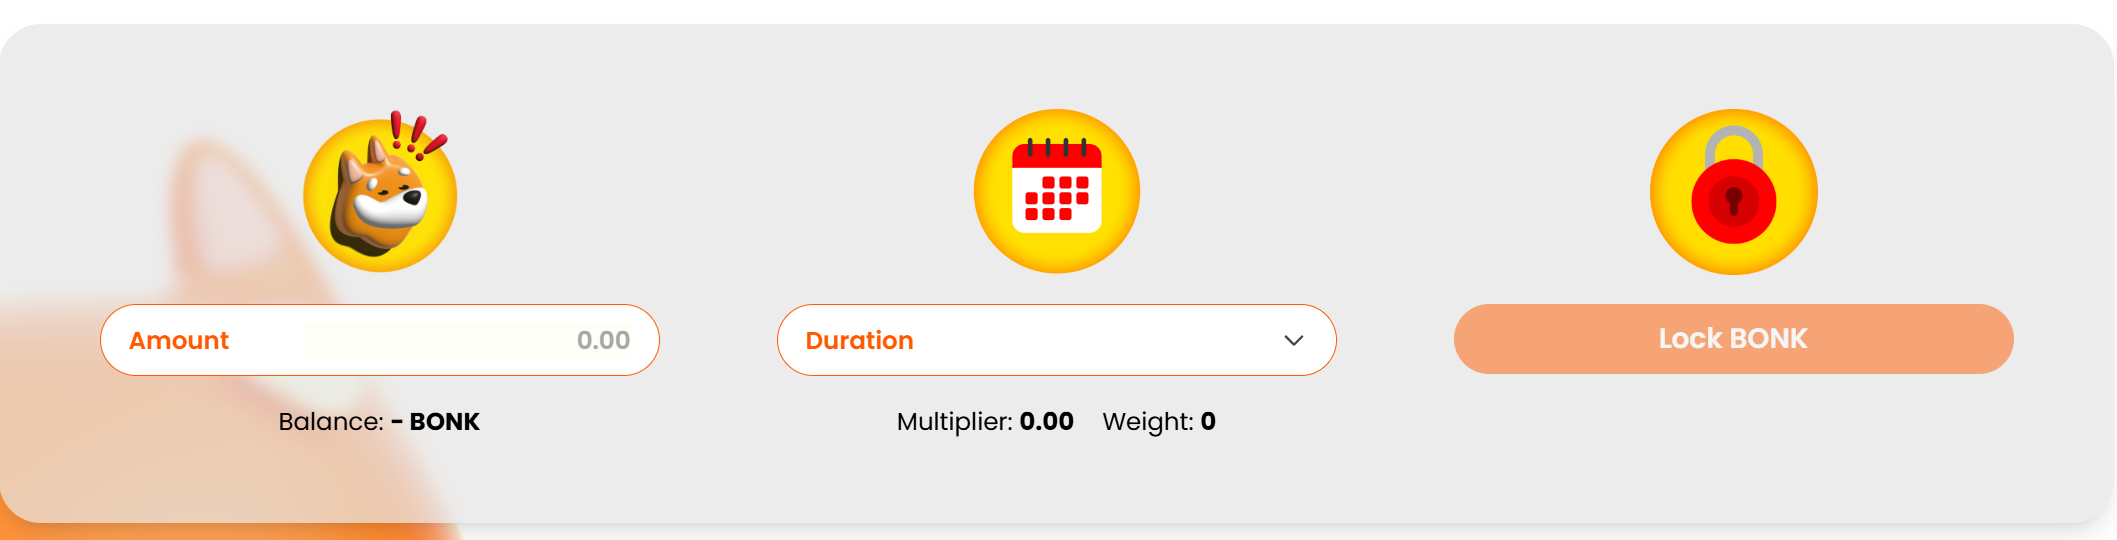
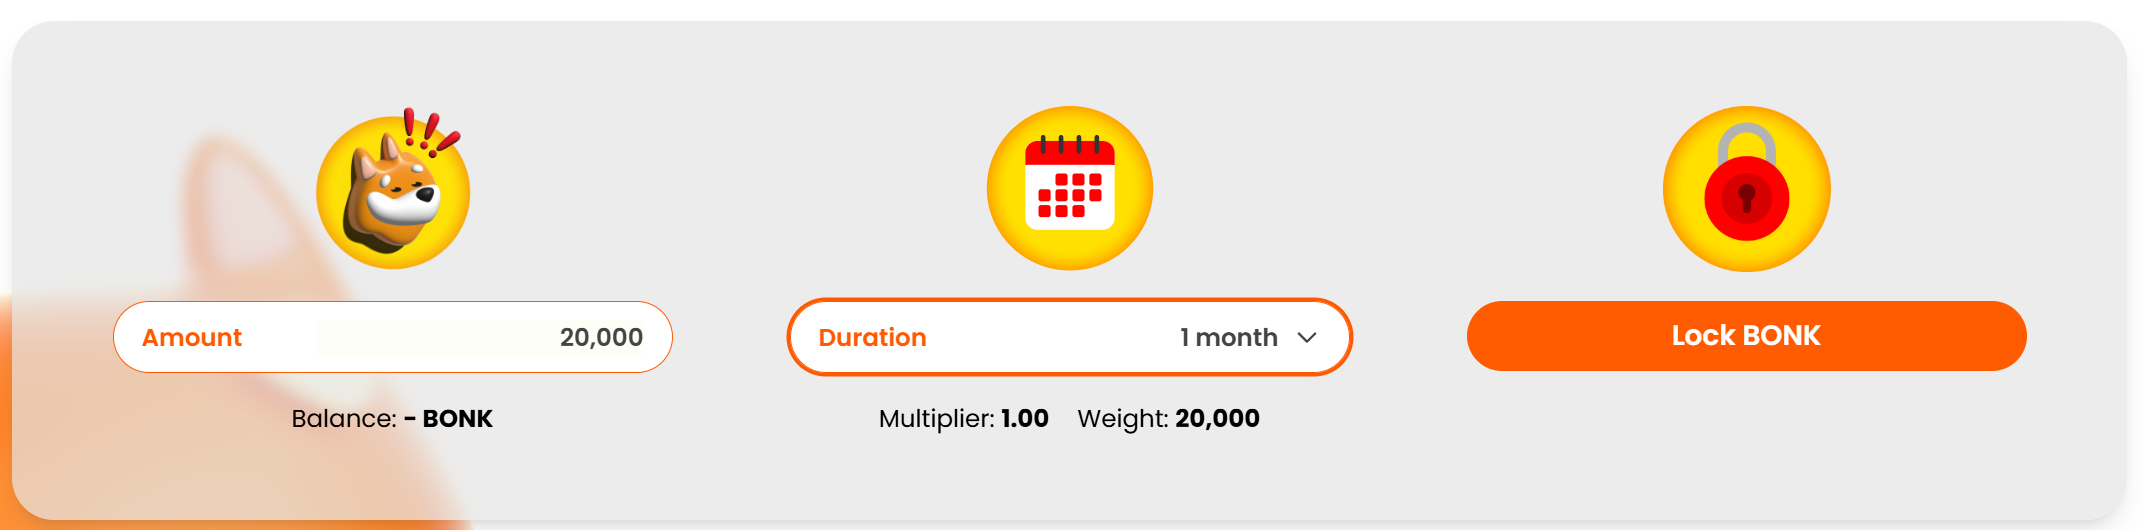
bonk

diff --git a/source/_posts/Bonk.md b/source/_posts/Bonk.md
@@ -1,0 +1,104 @@
+---
+title: Bonk 及其产品介绍
+date: 2025-12-29
+tags: Bonk
+---
+Bonk 是一个建立在 **Solana 链**上的大型加密货币社区和生态系统。
+### 1 Bonkrewards
+Bonkrewards 是 Bonk 生态官方推出的一个质押奖励平台。
+特别之处在于 BonKrewards 的奖励来源于 Bonk 生态产品的实际收入。平台会将这些收入的一部分分配给在 Bonkrewards 上锁仓的用户。锁仓时间越长，锁仓数量越多锁定期间能申领 Bonk 也会越多，具体的比例可以参考下图
+<img src="/blog/images/Bonkrewards1.png" title="lightningcss" width="600px"/>
+
+#### 质押流程
+1. 准备工作
+钱包中需持有 $BONK 以及少量的 SOL，SOL 是用来支付网络手续费的。
+2. 质押操作
+1) 连接钱包
+访问[bonkrewards.com](bonkrewards.com)，并连接钱包。
+2) 选择锁仓金额及时长
+输入质押金额（Amount）并选择锁仓时长，锁仓时长分别是 1、3、6、12 个月。确认无误后点击 Lock BONK 开始锁仓。
+<img src="/blog/images/Bonkrewards2.png" title="lightningcss" width="600px"/>
+奖励一般不会自动发放到钱包，需要主动领取。
+
+### 2 Bonkfun
+BONKfun 是 Bonk 团队推出的一个 Memecoin 发射平台。
+
+<img src="/blog/images/Bonkfun1.png" title="lightningcss" width="600px"/>
+
+### 3 Bonkmark
+Bonk 版本的电子贺卡，可以让用户轻松地将自己的亲朋好久引入加密货币世界。
+同样，发贺卡之前需保证自己的钱包有足够的$BONK 和 SOL。通过[https://bonkmark.com/](https://bonkmark.com/)进入 Bonkmark 官网。
+1. 选择卡片
+官方提供了多张贺卡
+<img src="/blog/images/Bonkmark1.png" title="lightningcss" width="600px"/>
+
+2. 填写详细信息
+可以选择发送 Bonk 和 SOL 两种代币，输入代币数量、收款人、付款人还有收款人的邮箱地址，支持添加多封电子邮件，还可以选择网络手续费由哪方承担。
+<img src="/blog/images/Bonkmark2.png" title="lightningcss" width="600px"/>
+
+### 4 Bonk.live
+Bonk.live 核心功能是一个名为 BONKpad 的代币启动平台，它与 BonKfun 是有区别的。
+Bonk.live 官方支持的代币启动平台，专注于筛选优质项目，提供更正式、合规的代币发行渠道，发币需项目方审核，比较严格。BonKfun 是主要聚焦于 Memecoin 和社区代币的快速发行平台，主打“一键发币”，比较适合于普通用户和 Meme 币爱好者。
+
+### 5 BONK 的回购与销毁机制
+BONK 的代币模型是通缩模型，这类代币通过销毁机制不断减少市场上的流通总量。虽然 BONK 的初始总量是固定的，但只要 Solana 链上交易活跃、用户使用 BONKbot 或 Bonk.fun 等，销毁就会持续发生，生态的繁荣程度一定程度上转化为代币的稀缺度。
+
+#### 回购
+BONKbot 是目前 BONK 最稳定且持续的回购来源，BONKbot 对每笔交易收取 1% 的固定手续费。其中 10% 会立即发往黑洞地址销毁，另外 10% 发送至 BONK DAO 国库。另外 80% 用于推荐人返佣和团队开发与运营成本等。
+
+这里的 BONK DAO 国库是指 BONK 生态系统的财务核心。它不是某个人的私人账户，而是一个通过 Realms 平台进行管理的去中心化账户。
+
+#### 销毁
+像前面说到的，BONKbot 交易手续费的 10% 会被销毁。Bonk.fun 的部分手续费也用于回购和销毁，是销毁的主力之一。另外，BONK DAO 还通过了百万持币者提案，当 Solana 链上独立持币地址达到 100 万个时，将从国库中一次性销毁 1 万亿枚 BONK。
+
+BONK DAO 已正式批准，一旦 Solana 链上的独立持币地址数达到 100 万个，将从国库中一次性销毁 1 万亿枚 $BONK$，目前独立持币地址数已达到 986923。可以通过[solscan](https://solscan.io/token/DezXAZ8z7PnrnRJjz3wXBoRgixCa6xjnB7YaB1pPB263#holders)实时查看进度。
+
+<img src="/blog/images/holders.png" title="holders" width="600px"/>
+
+[Dune](https://dune.com/wagg/bonk-stats#bonk-analysis)通常会有可视化的增长曲线，能帮你预测大约在哪一天会触达 100 万持币者。
+
+
+这个 100 万里程碑很重要，一次性销毁 1 万亿枚代币约占当前流通量的 1.2% - 1.5%，这在 memecoin 历史上是极具规模的单次通缩行为。并且，100 万持币者象征着 $BONK 已经从一个简单的社区币进化成了 Solana 链上的“基础货币”，通常会伴随较大的市场波动。
+
+### 6 BONK 白皮书
+《BONK 白皮书》详细介绍了 BONK 的核心理念、代币分配方案以及法律风险提示。
+
+#### 项目核心愿景定位
+长期以来，Solana 一直是掠夺性 VC 代币的受害者。BONK 的创建是为了扭转这一局面，将权力交还给社区。
+
+这里的掠夺性 VC 具有特定历史背景，它典型的财富收割手段是低流通、高估值，VC 们以极低的价格拿到大部分的代币。当散户看到币价暴涨并入场接盘时，VC 锁定的代币开始分批解锁。由于 VC 的成本极低，即使币价跌去 90%，他们依然有百倍利润，而高位买入的散户则被深度套牢。
+
+BONK 则将部分代币空投给社区，无私募，无 VC 预留。利润用于回购销毁，价值反馈给所有持有者。BonkDAO 拥有决策权，任何人质押足够数量的 BONK 都能投票决定财库资金是用于开发还是销毁。
+
+BONK 的目标是成为真正的 Solana 社区代币，在整个生态系统的 dApp 中广泛使用。它不属于 VC，而由构成网络社交层的用户持有。
+
+#### 代币效用多功能代币
+BONK 是一种具有加密安全性且可转让的功能性多用途代币。它在生态系统支持者之间充当去中心化的交换媒介，可以为参与者提供便捷、安全的支付和结算方式，无需中介机构。还通过分配 BONK 激励用户参与生态建设，确保贡献者获得公平补偿。
+
+#### 代币分配方案
+总供应量的 50% 已空投给 Solana 社区的四个不同群体：
+
+NFT 项目 (21%)：分配给 40 个活跃的 Solana NFT 项目（代表超过 29.6 万个 NFT） 。
+
+市场参与者与 DeFi 用户 (16%)：分配给生态内的交易者。
+
+艺术家与收藏家 (10%)：分配给 1/1 艺术品的创作与收藏者。
+
+Solana 开发者 (5%)：旨在奖励构建 Solana 程序的开发者。
+
+其他分配 (50%)：
+
+早期贡献者 (21%)：分配给 22 位协助启动项目的个人，设有 3 年线性锁定期。
+
+BONK DAO (16%)：由代币持有者通过 Realms 治理，用于社区发起的倡议。
+
+初始流动性 (5%)：用于 Raydium、Orca 和 Solend 等平台的流动性分发。
+
+营销推广 (5%)：用于营销活动、赠款和激励。
+
+以上是 BONK 白皮书的主要内容，由此可见 BONK 白皮书主要介绍了代币分配方案，销毁机制并不是在 BONK 上线时就立刻提出来的，许多销毁活动是由 BONK DAO 通过社区投票决定的。
+### 参考
+[BONK 白皮书](https://bonkcoin.com/BONK-Paper.pdf)
+[BONKbot Docs](https://docs.bonkbot.io/)
+[参与治理](https://app.realms.today/dao/Bonk)
+[bonkdao](https://www.bonkdao.com/)

diff --git a/source/_posts/Realms.md b/source/_posts/Realms.md
@@ -1,0 +1,29 @@
+---
+title: Realms
+date: 2025-1-10
+tags: web3
+---
+Realms 是 Solana 区块链上最核心、最知名的去中心化自治组织（DAO）治理平台。
+
+它不仅是 BONK DAO 的正式决策场所，也是整个 Solana 生态系统中管理组织架构和链上资产的“金标准”。简单来说，Realms 就像是一个区块链版本的“电子议会”和“共享金库”。
+
+1. Realms 的核心功能链上治理入口：
+
+它是 Solana 官方治理程序（SPL Governance）的前端界面。通过它，DAO 成员可以提出建议（提案）、讨论并进行链上投票，最终结果由智能合约自动执行，无需中介。
+
+金库管理：社区可以管理一个“公共账户”。提案通过后，Realms 会自动将金库中的资金分配给选定的项目或个人。
+
+权限准入：它支持多种治理模式。你可以通过持有特定的代币（如 $BONK）或特定的 NFT 来获得投票权（治理权）。
+
+透明可追溯：所有的提案内容、谁投了票、资金流向哪里，全部记录在区块链上，任何人都可以随时查阅，不可篡改。
+
+2. 用户如何在 Realms 上参与 BONK DAO
+
+质押获取投票权：用户需要将 BONK 存入（或锁定）在 Realms 平台上。锁定时间越长，通常获得的投票权重就越高。
+
+决定销毁与分配：像您之前关心的“百万持币者大销毁”提案，就是由社区成员在 Realms 上投票通过的。
+
+3. Realms 的平台地位生态中心：目前已有超过 4,000 个组织在 Realms 上创建，管理着数亿美元的资产。
+
+除了 BONK，像 Jupiter、Mango Markets 等知名项目也都在使用它。
+Realms 最近已从 Solana Labs 拆分出来，由独立的 Realms Today Trust 运营，未来还将提供法律注册建议和 DAO 专用信用卡等更进阶的服务。

diff --git a/source/_posts/token-launch.md b/source/_posts/token-launch.md
@@ -1,0 +1,23 @@
+---
+title: token-launch
+date: 2025-1-10
+tags: web3
+---
+并不是所有的代币发行都采用固定的发行量。
+
+代币的供应模型是由项目开发者根据其设计目标（如稀缺性、生态激励或安全性）决定的。根据代币设计的不同，主要可以分为以下几种模型：
+1. 固定总量模型
+这类代币在合约创建时就设定了最高发行上限，永远不会超过这个数字。代表性代币：比特币 ($2100$ 万枚)。$BONK$ 的情况：根据您提供的白皮书，$BONK$ 在发行之初设定了 100 万亿枚 的固定总供应量。
+
+2. 通胀模型 
+这类代币没有最高上限，会根据预设的速率不断产生新的代币，通常用于奖励验证者或维持网络安全。代表性代币：Solana ($SOL$)、以太坊 ($ETH$)、狗狗币 ($DOGE$)。逻辑：通过持续增发来激励生态参与者，但如果增发速度超过需求，可能会导致代币贬值。
+
+3. 通缩模型
+这类代币通过销毁机制不断减少市场上的流通总量。
+机制类型：固定总量 + 销毁：
+比如 BONK。虽然初始总量是固定的，但通过 BONKbot 回购销毁 和 DAO 提案销毁，其实际流通总量正在不断下降。
+交易销毁：每笔交易都会自动销毁一部分手续费。
+
+4. 弹性供应模型
+这类代币的总供应量会根据代币价格的变化而自动调整（增加或减少），旨在将代币价格锚定在某个水平。
+逻辑：如果价格高于目标，钱包里的代币数量会自动增加；如果价格低于目标，代币数量会减少。
